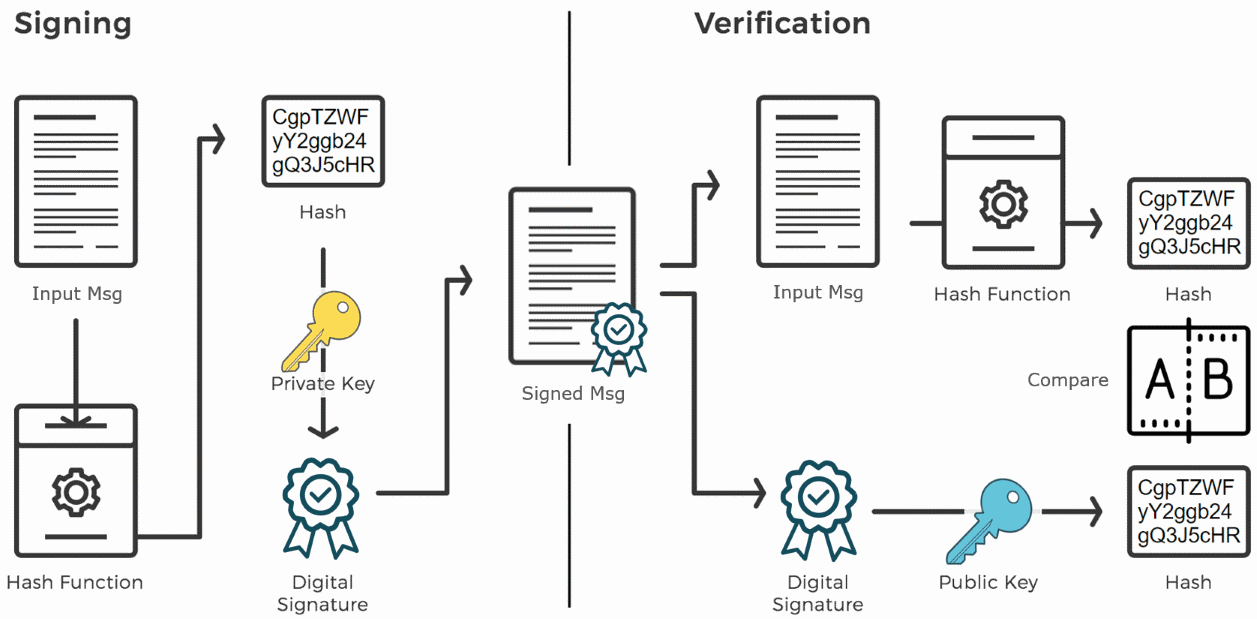
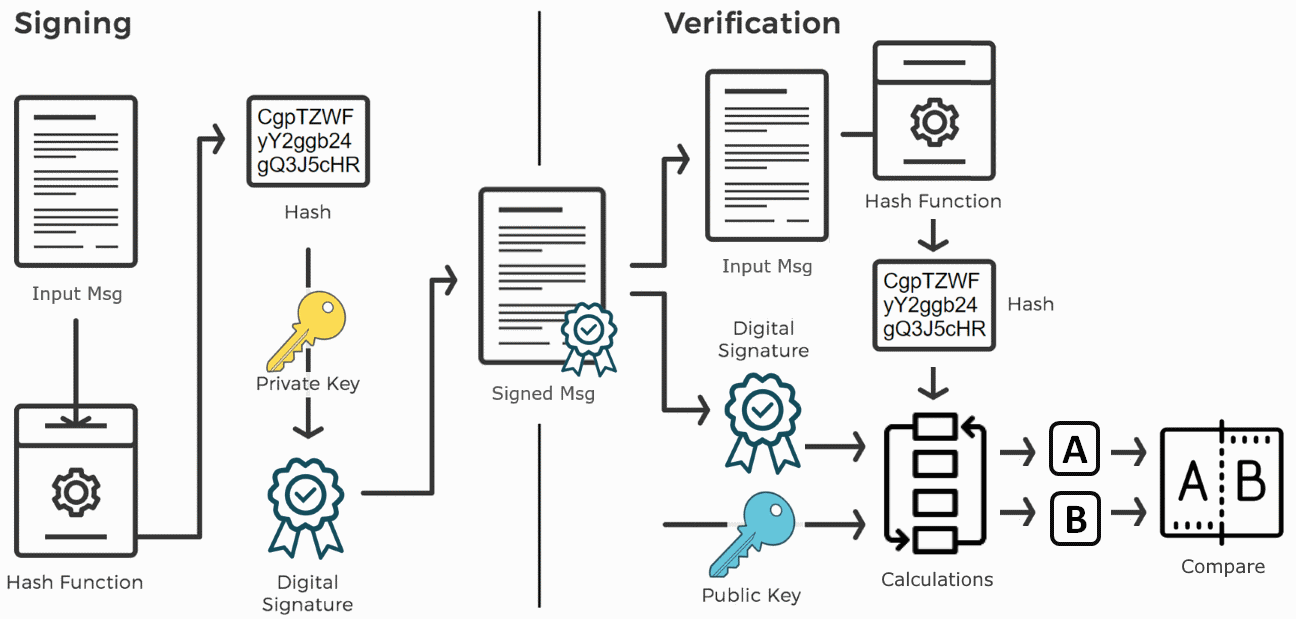
Updates digital-signatures.md
Auto commit by GitBook Editor

diff --git a/digital-signatures.md b/digital-signatures.md
@@ -26,11 +26,12 @@ Message **signatures** are **verified** by the corresponding **public key** \(ve
 
 A **message signature** mathematically guarantees that certain message was signed by certain \(secret\) **private key**, which corresponds to certain \(non-secret\) **public key**. After a message is signed, the message and **the signature cannot be modified** and thus message **authentication** and **integrity** is guaranteed. Anyone, who knows the **public key** of the message signer, can **verify the signature**. Аfter signing the signature author cannot reject the act of signing \(this is known as **non-repudiation**\).
 
-Most signature schemes work like it is shown at the following diagram:
-
+Most signature schemes work like it is shown at the following diagram:  
 ![](/assets/signature-sign-verify.png)
 
-At **signing**, the input message is **hashed** \(either alone, or along with the private key and other input parameters\), then some **computation** \(based on elliptic curves, discrete logarithms or other cryptographic primitive\) calculates the **digital signature**. At **signature verification**, the input message is again hashed \(either alone or along with the priva
+At **signing**, the input message is **hashed** \(either alone, or together with the public key and other input parameters\), then some **computation** \(based on elliptic curves, discrete logarithms or other cryptographic primitive\) calculates the **digital signature**. The **signed message** consists of the original message + the calculated signature.
+
+At **signature verification**, the original message is again **hashed** \(either alone or together with the public key\) and some calculation is performed between the message **hash**, the **signature** and the **public key**, and finally a **comparison** decides whether the signature is valid or not.
 
 **Digital signatures** are different from **MAC** \(message authentication codes\), because MACs are created and verified by the same secret key using a **symmetric algorithm,** while digital signatures are created by a signing key and are verified by a different verification key, corresponding to the signing key using an **asymmetric algorithm**. Both signatures and MAC codes provide message authentication and integrity.
 
